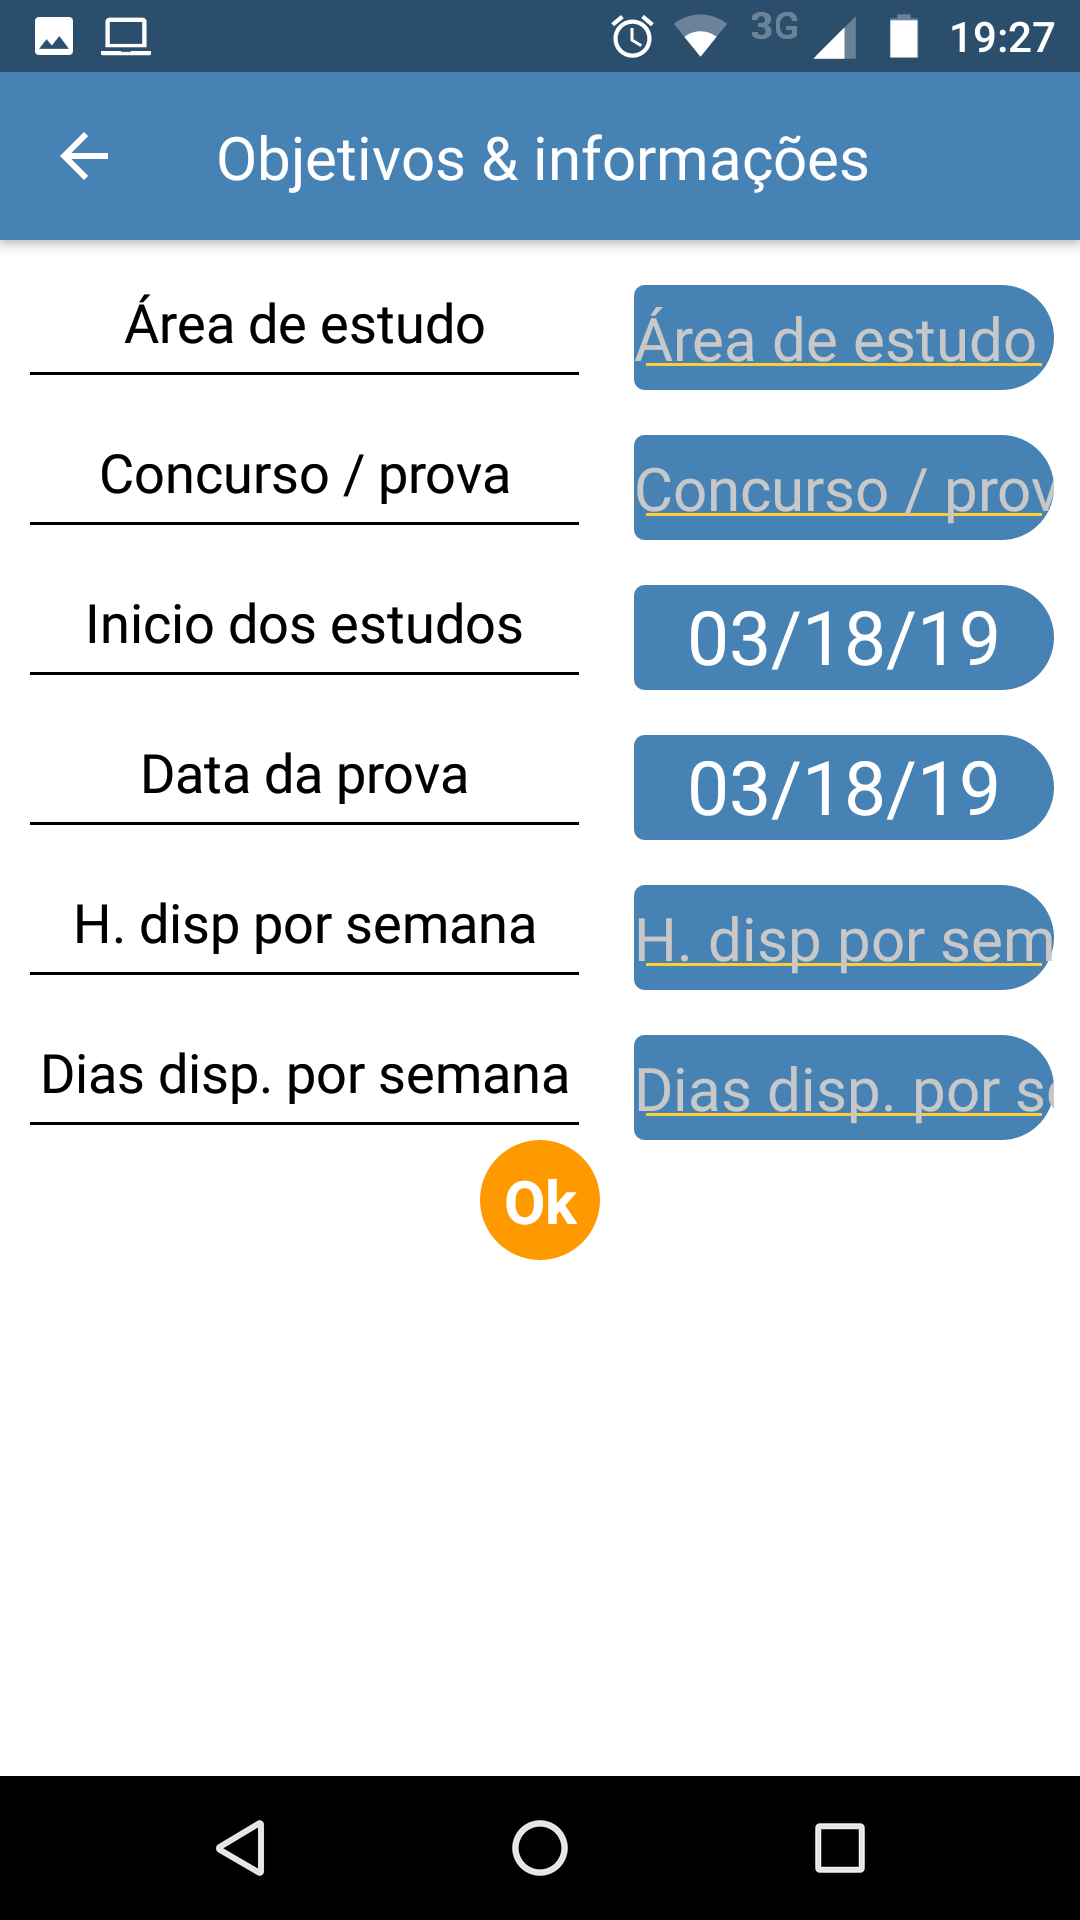
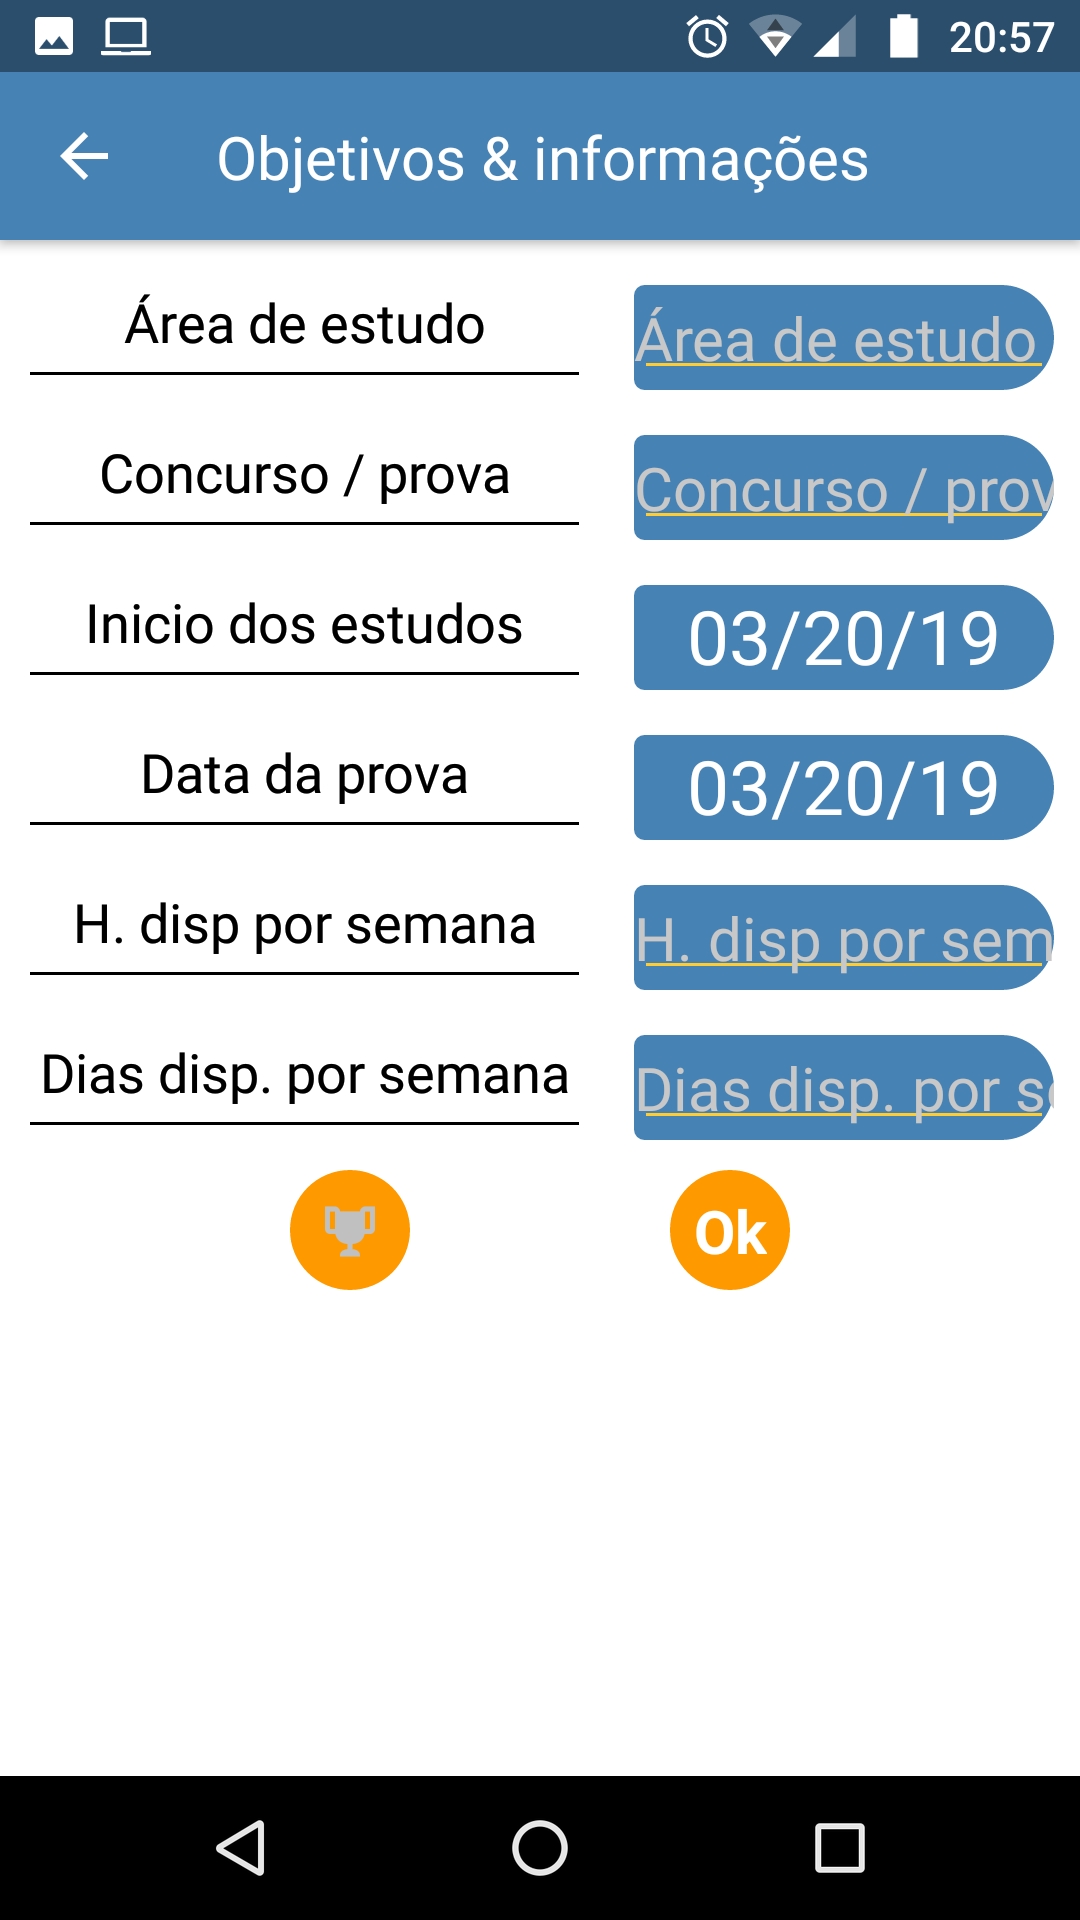
screenshots of v0.3

diff --git a/app/Dashboard.js b/app/Dashboard.js
@@ -449,7 +449,7 @@ class DashChamp extends React.Component {
             <View flexDirection='row'>
               <MaterialCommunityIcons style={{ marginRight: 20, width: '20%', color: 'gold' }} size={35} name="trophy" />
               <MaterialCommunityIcons style={{ marginRight: 20, width: '20%', color: 'silver' }} size={35} name="trophy" />
-              <MaterialCommunityIcons style={{ width: '20%', color: 'brown' }} size={35} name="trophy" />
+              <MaterialCommunityIcons style={{ width: '20%', color: colors.bronze }} size={35} name="trophy" />
             </View>
           </View>
         </View>

diff --git a/app/components/Theme.js b/app/components/Theme.js
@@ -44,7 +44,8 @@ export const colors = {
     yellow: '#ffcc00',
     ciclo: '#00cccc',
     estudo: '#993399',
-  }
+  },
+  bronze: '#CD7F32',
 }
 export function invertColor(color) {
   // const i = colors.weekDay.indexOf(color);
